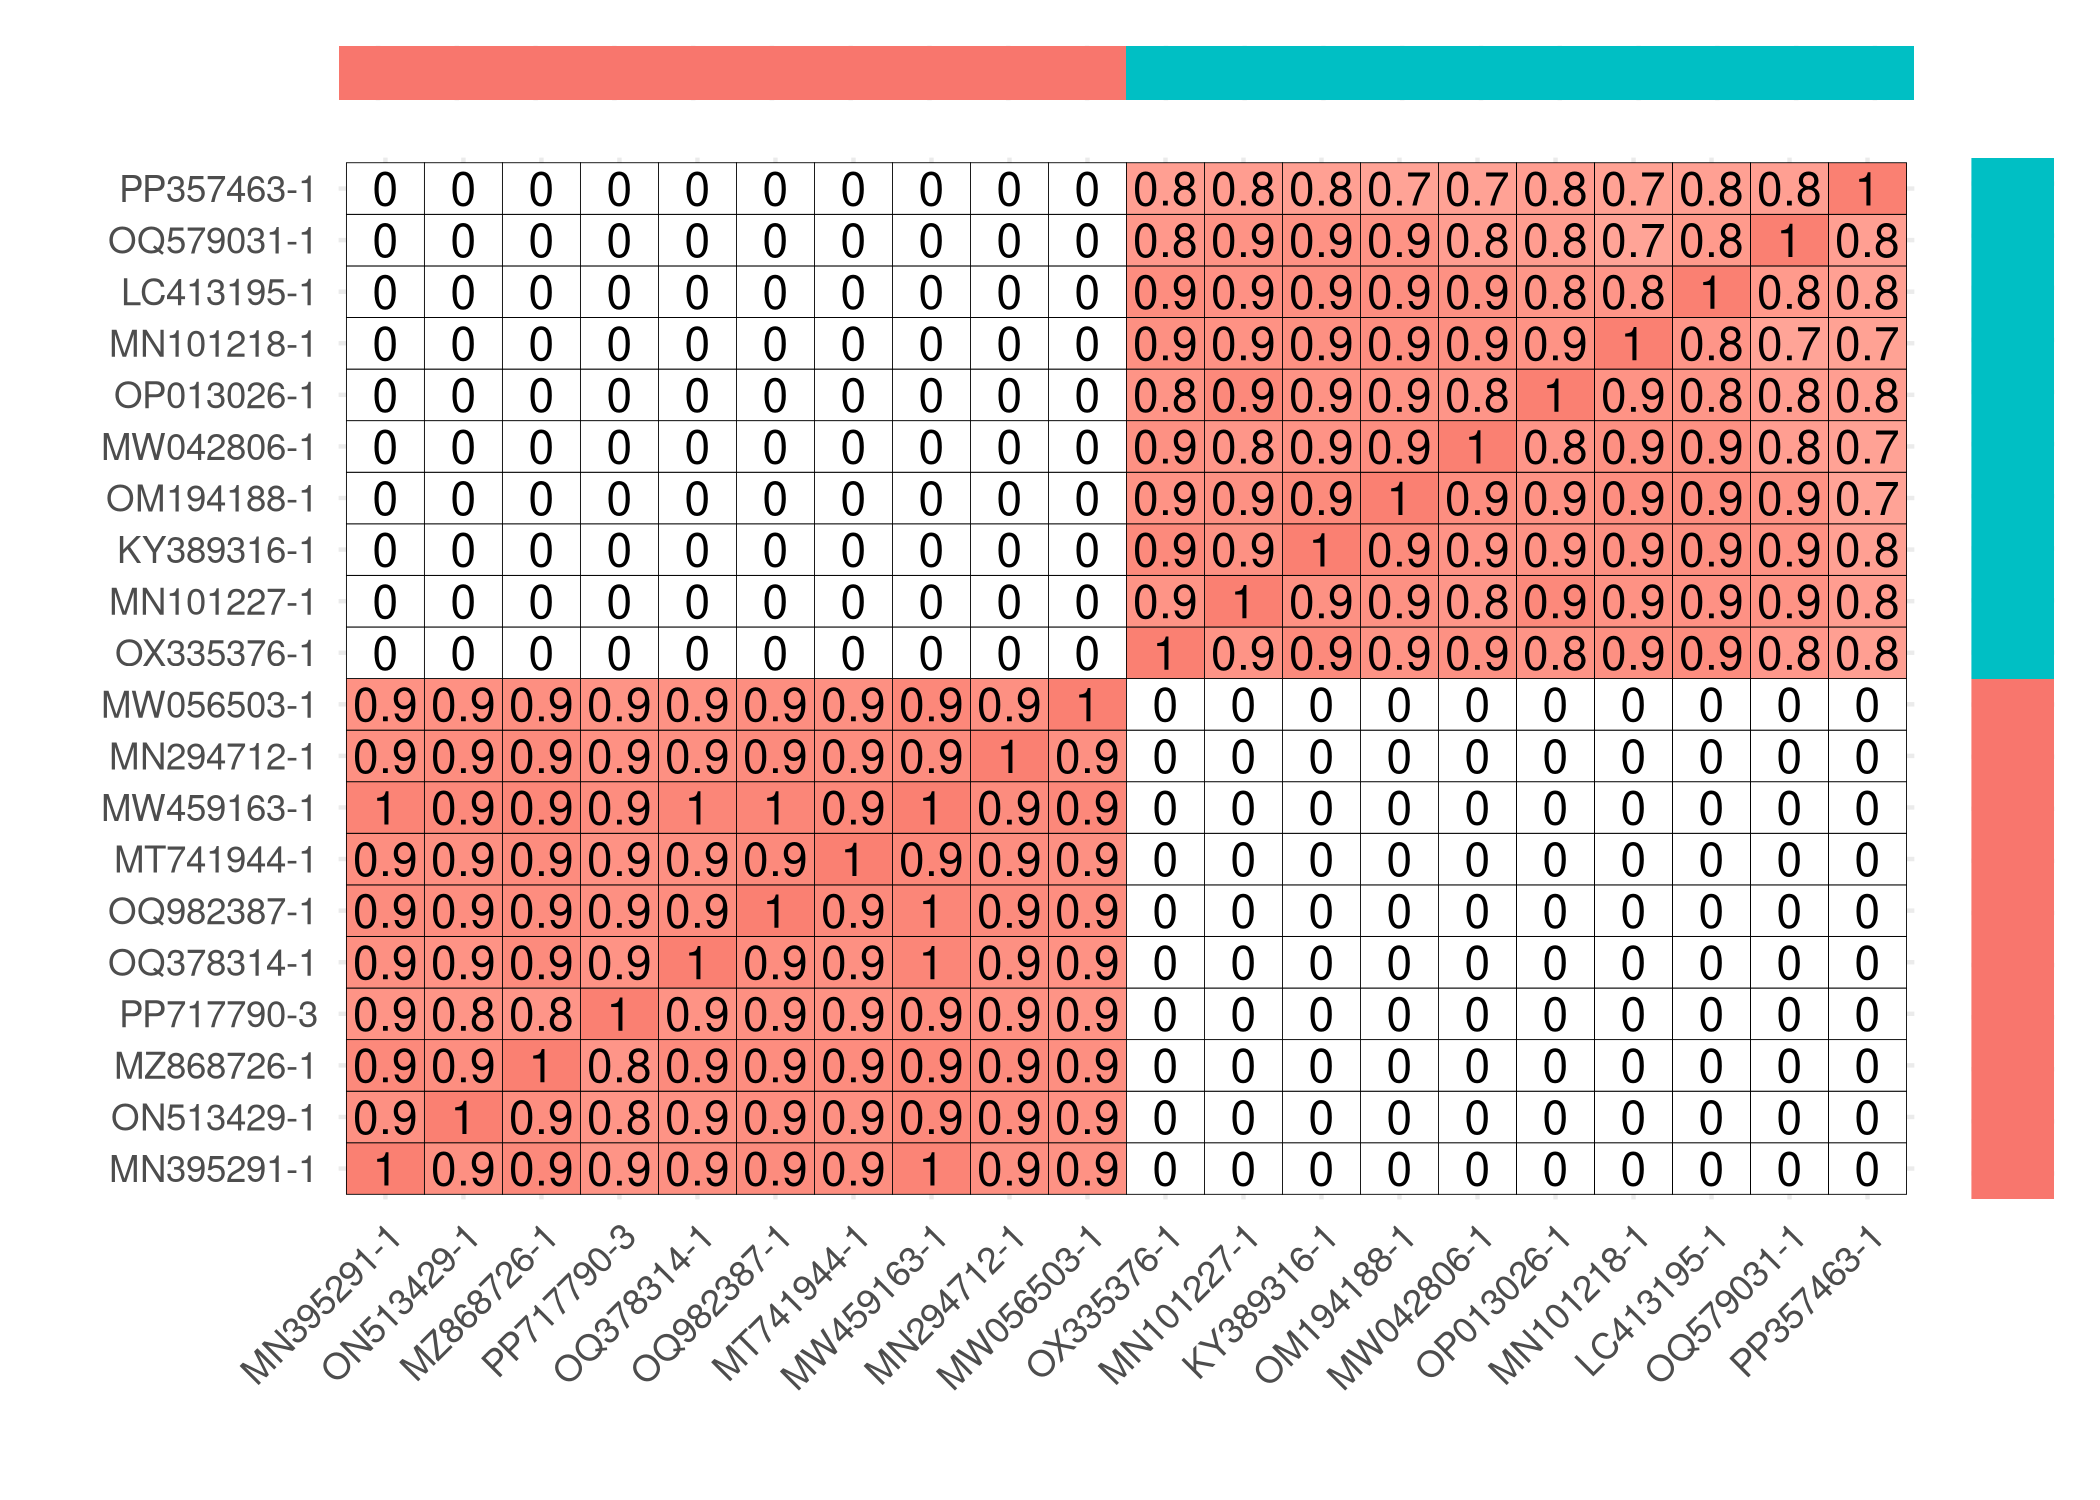
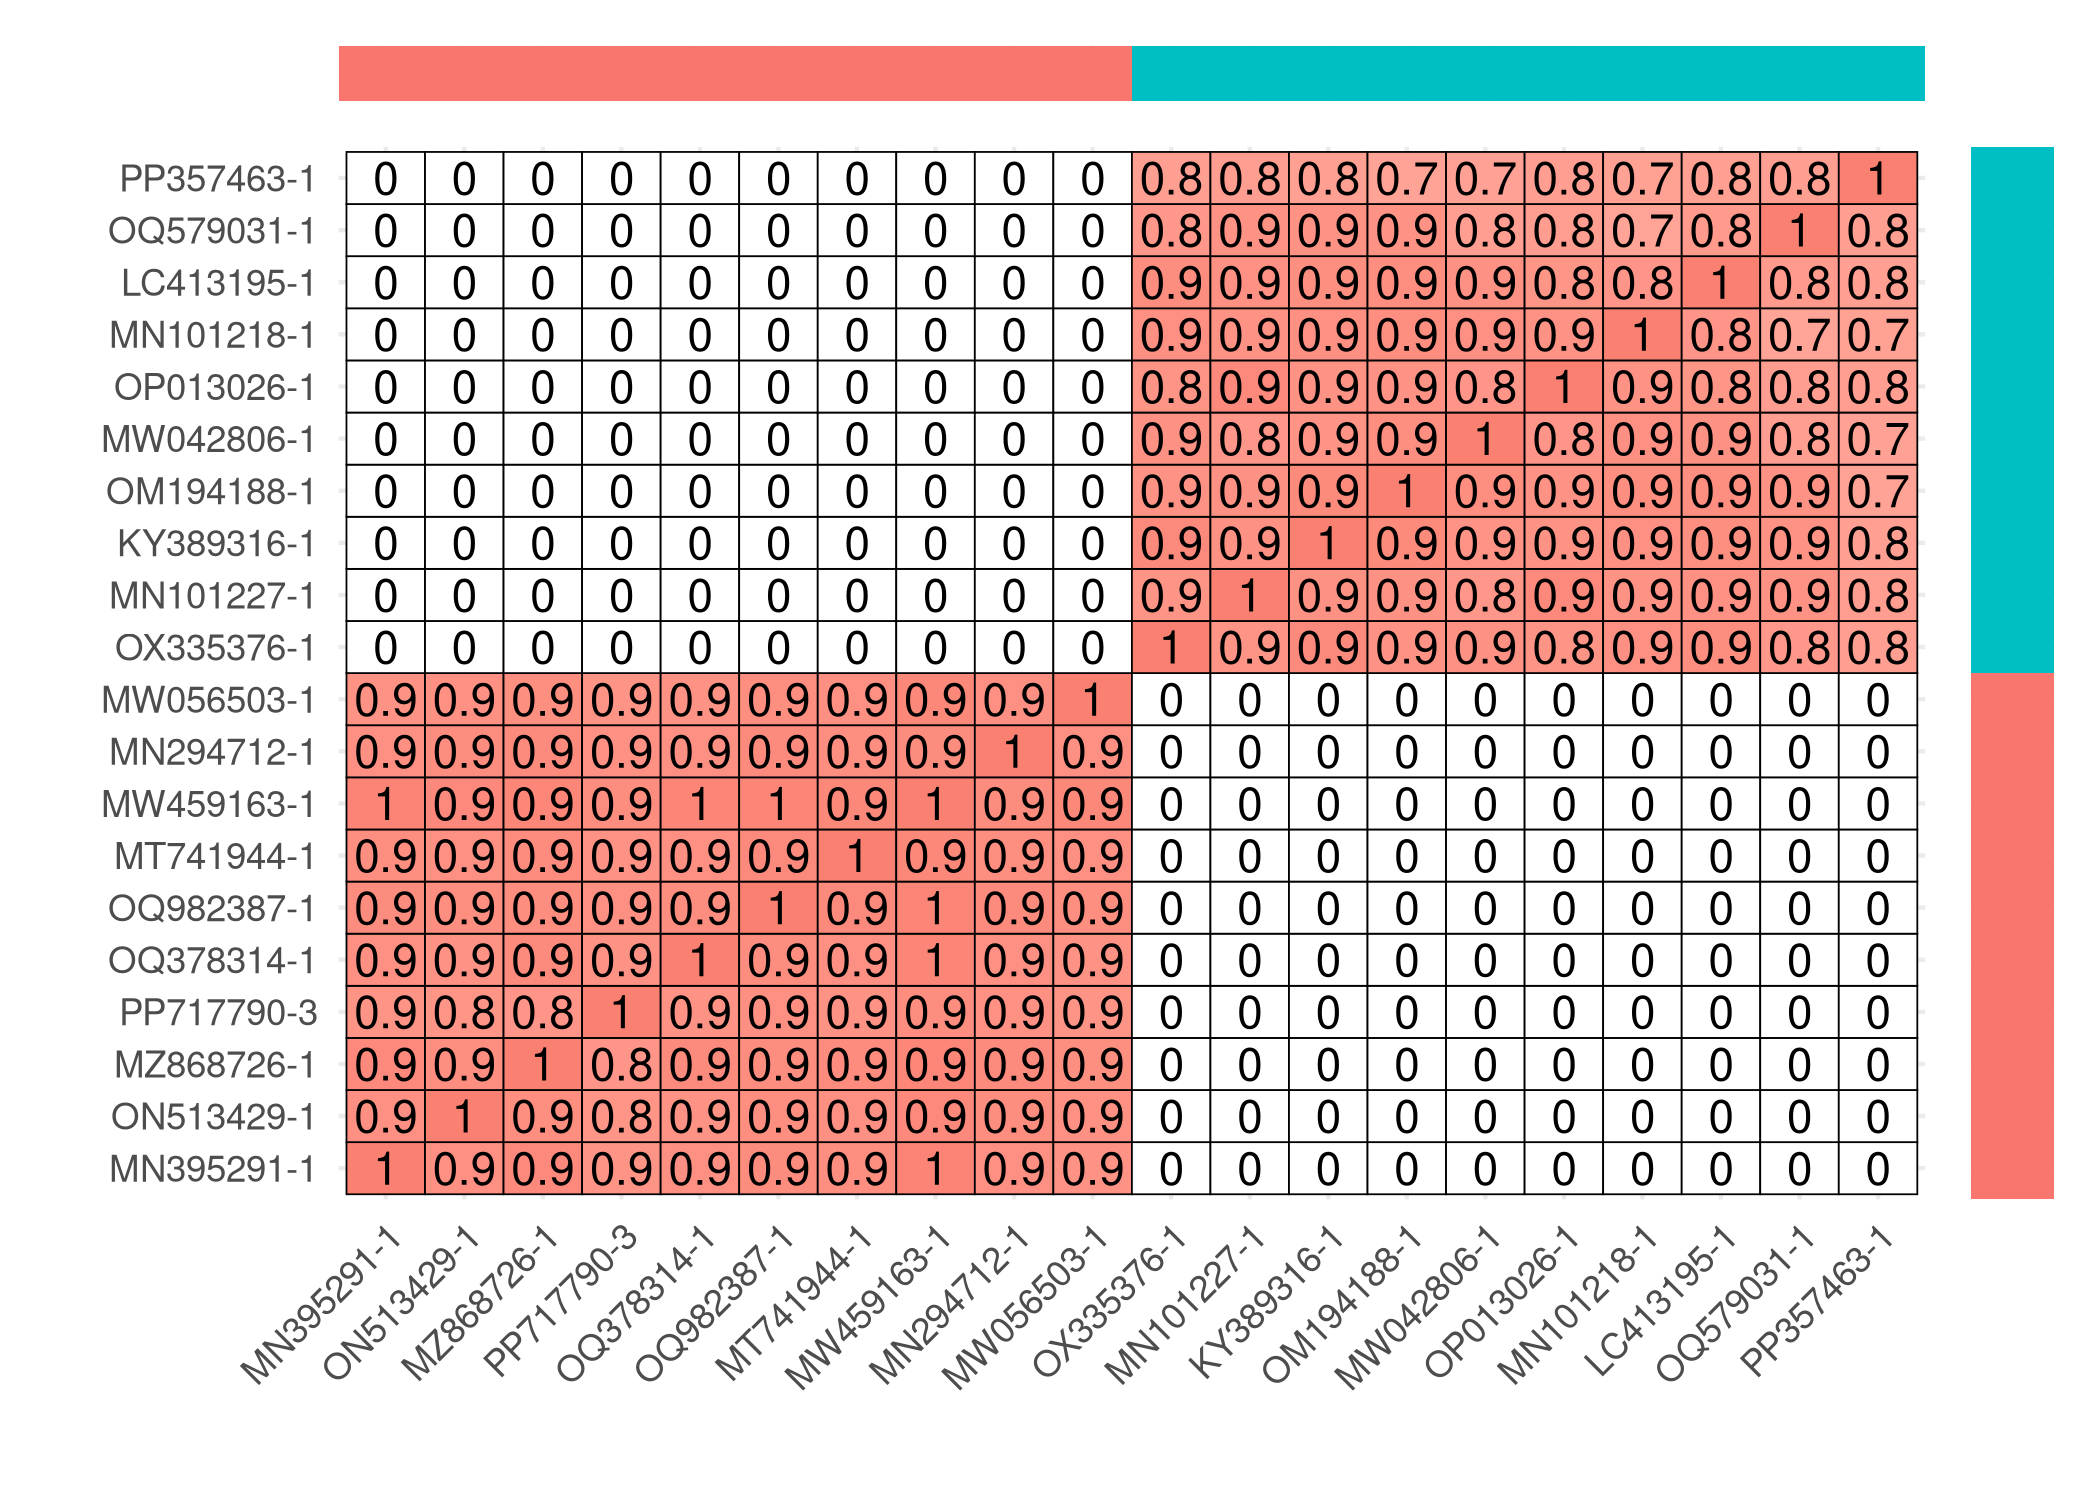
Update README

Changed region(s): [[0.031, 0.092, 0.9905, 0.7973], [0.1548, 0.828, 0.8976, 0.92], [0.8976, 0.0307, 0.9286, 0.0613]]

diff --git a/README.md b/README.md
@@ -8,7 +8,7 @@
 [![status](https://www.repostatus.org/badges/latest/active.svg)](https://www.repostatus.org/#active)
 [![R build
 status](https://github.com/sbthandras/tailor/workflows/R-CMD-check/badge.svg)](https://github.com/sbthandras/tailor/actions)
-[![Coverage](https://img.shields.io/badge/coverage-92.9%25-brightgreen)](#test-coverage)
+[![Coverage](https://img.shields.io/badge/coverage-89.9%25-yellow)](#test-coverage)
 [![DOI](https://img.shields.io/badge/DOI-10.64898%2F2026.02.20.706991-blue)](https://doi.org/10.64898/2026.02.20.706991)
 
 <!-- badges: end -->
@@ -72,7 +72,7 @@ adapter <- find_adapter(bps)
 
 adapter
 #>   pattern_id subject_id start end mean_score pident
-#> 1 MN395291-1 ON513429-1     1 172      4.878  0.901
+#> 2 MN395291-1 ON513429-1     1 172      4.878  0.901
 ```
 
 Note, for positions 1-152 and 153-172 the scores were quite different,
@@ -95,7 +95,7 @@ result:
 ``` r
 ps |> find_breakpoints(method = "plateau", type = "ewma") |> find_adapter()
 #>   pattern_id subject_id start end mean_score pident
-#> 1 MN395291-1 ON513429-1     1 157      4.656  0.936
+#> 1 MN395291-1 ON513429-1     1 157       5.07  0.936
 ```
 
 Note that with this method we detect a shorter conserved N-terminal